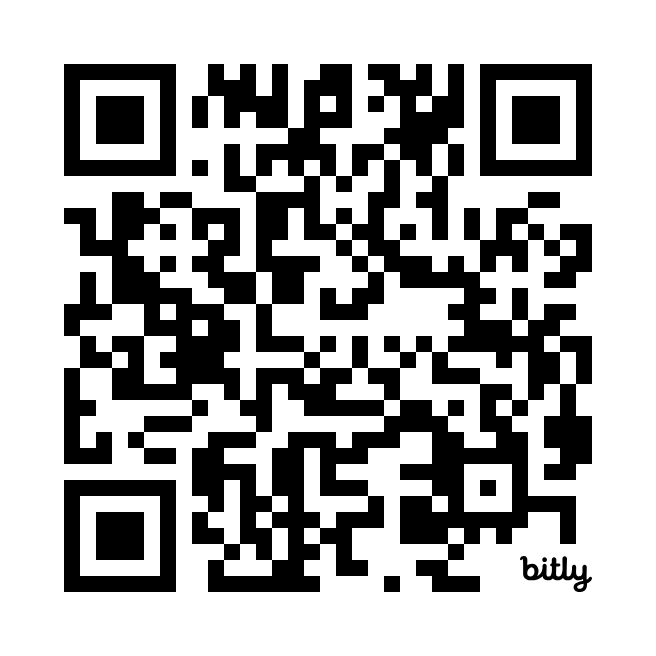
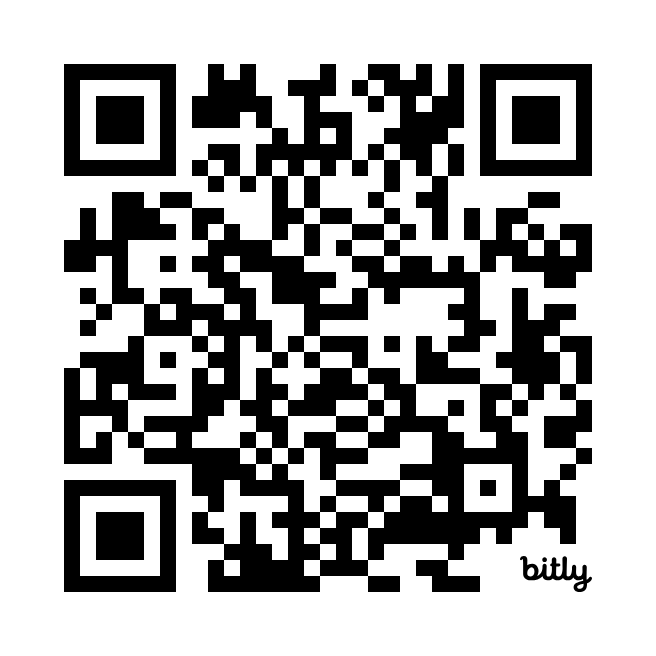
update README

diff --git a/README.md b/README.md
@@ -24,7 +24,7 @@ Note : L’application Webfauna (preview) est installée en parallèle de l’
 
 <img src="images/qrcode.png" width="200"/>
 
-https://bit.ly/4czrrKv
+https://bit.ly/3UJHX3T
 
 2. Un message de mise en garde peut s'afficher, confirmer le téléchargement "Télécharger quand même". Ce message s'affiche uniquement car le fichier est un exécutable mais il ne comporte aucun danger.
 
